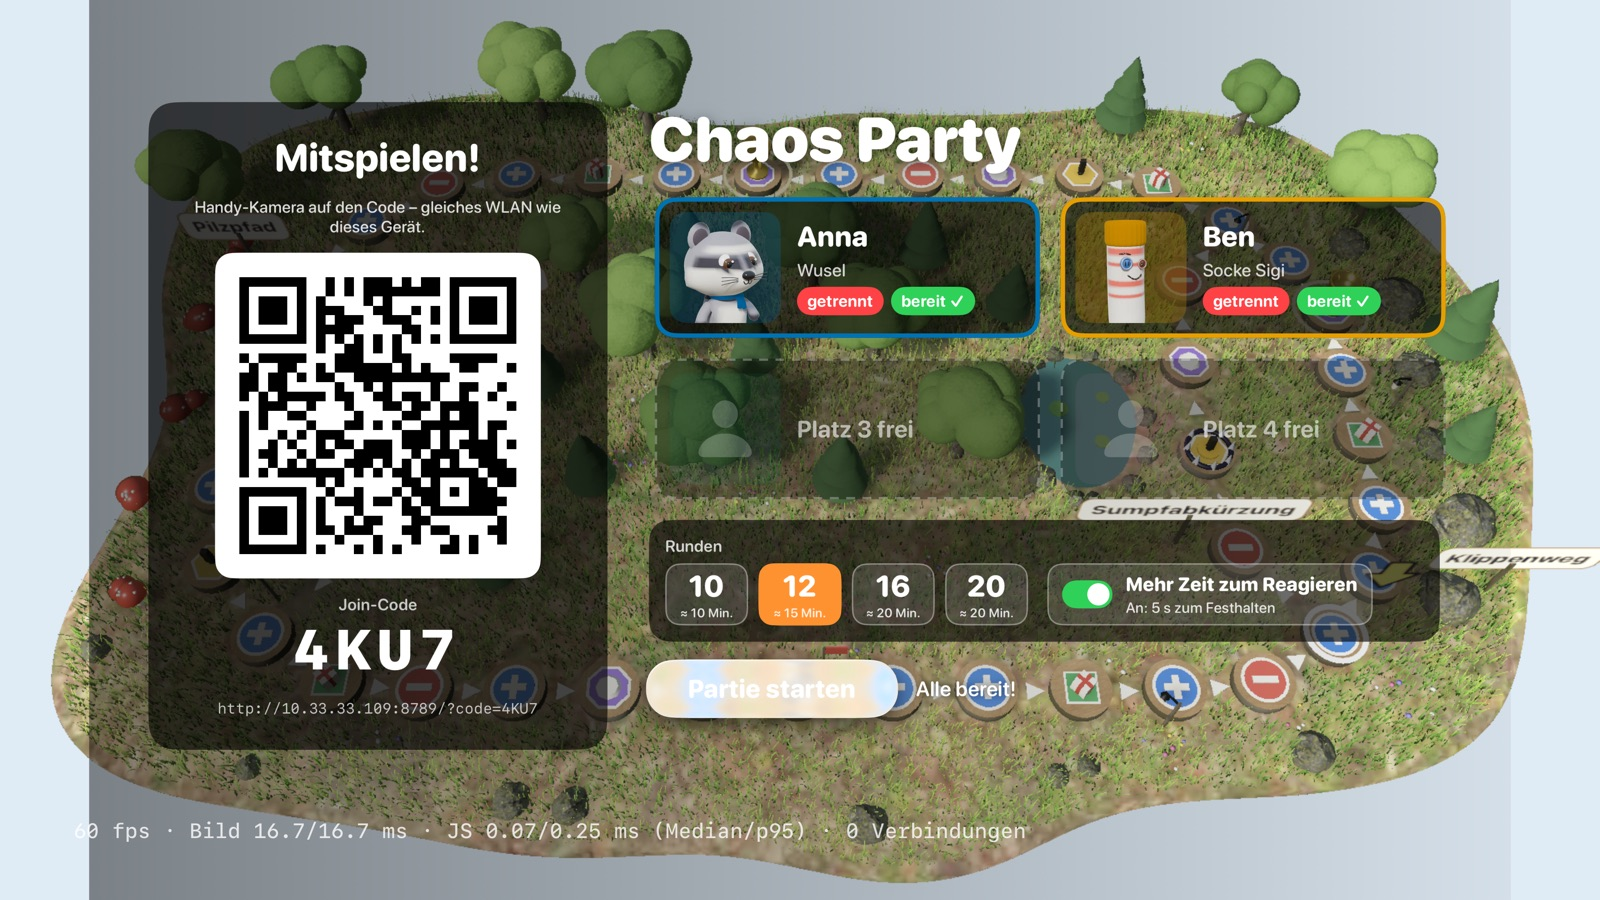
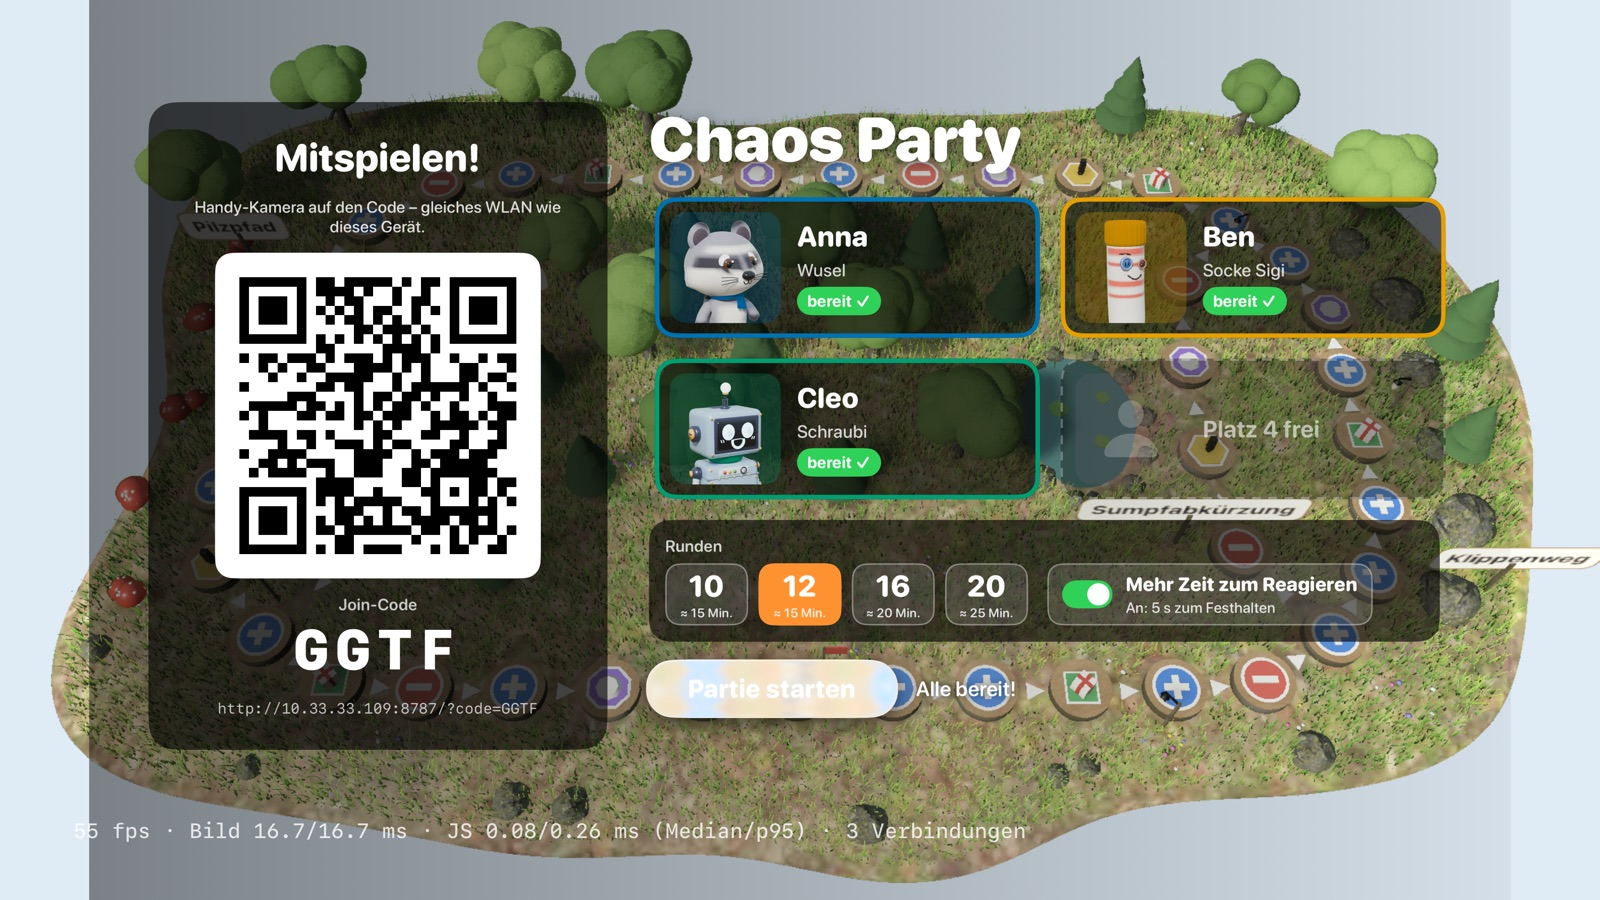
docs: M5-Bericht nach CHAOS-203, Minispiel-DoD für den Apple-Host, Lobby-Bild
Bekannte Grenzen und EXP-031 mit dem Fix aus PR #105, docs/minigames/README.md §5.3 an ADR-019 Nachtrag 5 angepasst (Geometrie-Export, kein Swift je Rolle nötig), progress.md mit dem nächsten Schritt M5-Abnahme, Lobby-Bild vom aktuellen Build.

CHAOS-146, CHAOS-164

diff --git a/docs/progress.md b/docs/progress.md
@@ -262,6 +262,7 @@ Details: [`testing.md`](testing.md).
 
 ## Nächste Schritte
 
+0. **M5-Abnahme (CHAOS-164):** Ruben spielt eine Partie auf der echten Apple TV und am Mac mit iPhones nach Gerätecheckliste §34 (CHAOS-204) und entscheidet dann über das Gate. Bericht: [`acceptance/M5.md`](acceptance/M5.md), Messwerte aus Simulator und Mac in EXP-031. Vorbeugend offen: CHAOS-205, CHAOS-206.
 1. M4-PR [#16](https://github.com/rubenvitt/chaos-party/pull/16) mergen (nach CI). Stand von `main` (CHAOS-60, CHAOS-61, CHAOS-64, CHAOS-62) ist eingemischt: Die Figurenwahl im Controller, die Plakette und der Endstand zeigen die neuen Blender-Porträts (Plakette mit der gewählten Figur), die M4-E2E-Tests öffnen Controller-Geräte im Chromium ohne GPU (`deviceBrowser`). Das Brett im Natur-Look (CHAOS-62) behält die M4-Fähigkeiten: Render-Pause hinter Trophäenzählung/Podest, Messung je Szene, gewählte Figuren und Revanche; die Minispiel-Bühne verbindet `ctx.look`/Grafikstufen mit der Pause (ADR-015).
 2. **Performance auf echter Hardware (höchste Priorität):** Ruben erlebt die Partie als „hakelig langsam“. Erst messen (`?debug=1` → „Alle Szenen kopieren“, Checkliste PF0–PF10, N1–N7), dann die Ursache beheben (CHAOS-73; Kandidaten in [`performance.md`](performance.md) §3a, Podest CHAOS-71). Offen bleibt der iPad-Nachtest CHAOS-47 (Checkliste Abschnitt 4).
 3. Grafik-Neuausrichtung CHAOS-56 läuft getrennt weiter: Look-Dev abgeschlossen (EXP-008, EXP-009; PR #7, #8). Figuren neu aus Blender-Skripten (CHAOS-58, ADR-013), von Ruben abgenommen. Controller-UI „Glas & Licht“ umgesetzt (CHAOS-59). Porträts der neuen Figuren in Lobby und Controller (CHAOS-61, Blender-Render, `docs/screenshots/chaos61-portraets.jpg`). Lichtstimmungen als Daten (`apps/host/src/lighting/moods.ts`, CHAOS-60, EXP-010): sechs Stimmungen inkl. Dämmerung und Nacht (Laternen, Glühwürmchen, leuchtende Felder), Ruben wählte den Lichtwechsel im Lauf der Partie (Runde 1 morgens, letzte Runde nachts). Natur-Look im Spiel erledigt (CHAOS-62, ADR-014): Modul `apps/host/src/nature/`, Brett als Insel mit Baumscheiben-Feldern (`board/natureBoard.ts`), Minispiele über den optionalen Vertrag `ctx.look` (Kulisse, PBR-Materialien), CC0-Texturen und -Himmel im Asset-Paket, Grafikstufen `hoch`/`mittel`/`niedrig` mit Automatik und Sparstufe `minimal` (Testmodus, Software-Rendering). Bilder: `docs/screenshots/chaos62-*.jpg`. Offen: Bildrate am Ziel-PC (Gerätecheckliste N1–N7). Lichtverlauf je Runde umgesetzt (CHAOS-63): Partie als Tag von Morgen bis Nacht, 4 s Überblendung beim Rundenwechsel ohne Nachladen, Minispiele erben die Runden-Stimmung, HUD nachts hell; Bild `docs/screenshots/chaos63-lichtverlauf.jpg`, Gerätetest Checkliste Abschnitt 14 (L1–L7). Lobby-Arena und Siegerpodest im Natur-Look (CHAOS-77): gemeinsame Bühnen-Kulisse `nature/stageLook.ts`, Lobby fest in der Goldenen Stunde (Baumstamm-Banden, Baumstumpf-Pfosten), Siegerehrung fest nachts (Holzpodest, leuchtende Slot-Deckel, Spot, Laternen), CSS-Hintergründe passend; Bilder `docs/screenshots/chaos77-*.jpg`, Gerätetest Checkliste Abschnitt 15 (LS1–LS5). Wackelnder E2E-Test „geteiltes iPad: zwei Finger steuern zwei Figuren“ behoben (CHAOS-64): Controller-Geräte laufen im Test in einem eigenen Chromium ohne GPU (siehe `docs/testing.md`).

diff --git a/docs/minigames/README.md b/docs/minigames/README.md
@@ -88,7 +88,7 @@ Heute baut jedes Minispiel Arena, Spawner, Zeitanzeige, Punkte-Schilder, Highlig
 4. Läuft am geteilten iPad (Zone) bedienbar, sonst als „nur iPhone“ markiert und von der Rotation bei iPad-Zonen ausgeschlossen.
 5. Screenshot-Baseline, kurzer Eintrag im Katalog (Status, Zahlen).
 6. Grafikstufe `niedrig` hält auf dem Ziel-PC mindestens die Bildrate der bestehenden Spiele.
-7. Läuft auch im nativen Apple-Host (Mac, Apple TV) mit echter Grafik: Bewegliche Objekte sind per `markVisual` mit einer Rolle gekennzeichnet, und für jede Rolle gibt es eine RealityKit-Darstellung. Es gibt nur eine Variante des Spiels (Ruben, 2026-11-17, ADR-019 Nachtrag 2); kein Minispiel kommt nur auf einen Host. Gilt, sobald der Apple-Host Minispiele darstellen kann (CHAOS-144).
+7. Läuft auch im nativen Apple-Host (Mac, Apple TV) mit echter Grafik. Es gibt nur eine Variante des Spiels (Ruben, 2026-11-17, ADR-019 Nachtrag 2), kein Minispiel kommt nur auf einen Host. Seit CHAOS-144 überträgt der JS-Kern die Geometrie der Babylon-Meshes an RealityKit (ADR-019 Nachtrag 5). Eigener Swift-Code ist dafür im Regelfall nicht nötig. Bewegliche Objekte bleiben per `markVisual` mit einer Rolle gekennzeichnet; Swift nutzt die Rolle für Figuren (USDZ) und Effekte. Nachweis: eine Bot-Partie im tvOS-Simulator, in der das Minispiel sichtbar durchläuft, und `apps/apple-host/harness/run.sh full`. Klänge kommen über `ctx.fx.sound` von selbst mit (CHAOS-190).
 
 ### 5.4 Trichter (Status im Katalog)
 

diff --git a/docs/experiments.md b/docs/experiments.md
@@ -2456,6 +2456,7 @@ Zwei Läufe, weil das Display des gesperrten Macs im zweiten Lauf abschaltete:
 
   JavaScriptCore läuft in der Mac-App ohne JIT (Hardened Runtime). Deshalb ist die JS-Zeit im Minispiel höher als im Simulator, und ab und zu fällt ein Tick aus (0,2 %). Die Spielzeit bleibt trotzdem richtig, weil der Kern feste 1/60-Schritte nachholt.
 - **Lauf 2, Display aus** (Endstand `main`, mit `--pausentest` und Revanche): Pause im Brett und im Minispiel, Funkstille mit Wiederverbindung, Finale und Revanche liefen durch. Die App lief aber die ganze Zeit im Ersatztakt (10 Bilder je Sekunde, `angezeigt` 0), und macOS drosselte sie. Bei **4 von 10 Minispielen kam das Ergebnis zu spät** („nicht mehr gebraucht (Server ist weiter)“). Das ist ein echter Fehler für einen verdeckten oder minimierten Mac-Host → **CHAOS-203**. Bildraten aus diesem Lauf sind nicht verwertbar.
+- **Nachtrag CHAOS-203 (PR #105):** Ursache war die Drosselung durch macOS (Ersatztakt 4 statt 8 Hz, JS-Ticks bis 1,25 s) zusammen mit dem verteilten Aufbau (2 ms je Tick). Mit 8 Hz war die Bühne auch ungedrosselt in 8 von 10 Runden erst nach dem Countdown fertig. Jetzt läuft die Partie ohne Drosselung (`beginActivity`), der Ersatztakt mit 60 Hz. Minimiert: vorher 10/10 angenommen, aber die Bühne nur in 2/10 Runden rechtzeitig; nachher 10/10 angenommen und 10/10 rechtzeitig, längster JS-Tick 31 ms.
 
 **Nebenbefunde:**
 
